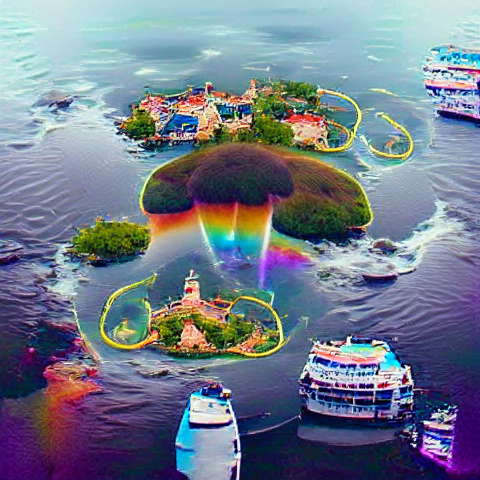
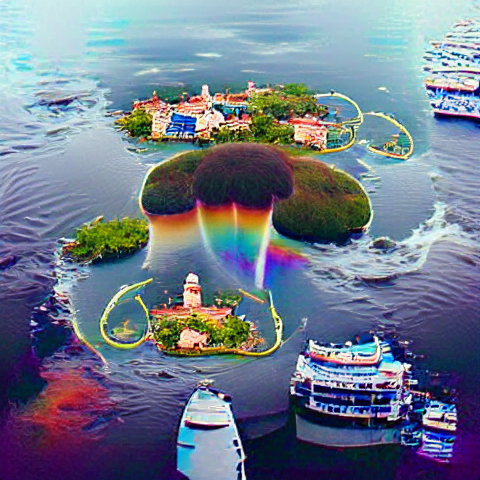
new imgs

diff --git a/index.html b/index.html
@@ -13,9 +13,11 @@
   	window.onload = setTimer;
   	var startTime, currentTime;
   	var oldlength = 0;
+  	var i=0;
+  	var j=0;
   	
-
-  	var images = ["img/biggan/island_1.jpeg", "img/biggan/ghibli.png", "img/biggan/octopus.png", "img/biggan/etheral.png", "img/biggan/galaxy.png", "img/biggan/sun.png", "img/biggan/alice.jpeg"];
+  	//todo: need to add more images for this
+  	var images = [["img/biggan/island_1.jpeg", "img/vqgan/island.png", "img/dalle/island.png", "img/draw/island.jpeg"], ["img/biggan/ghibli.png", "img/draw/ghibli.jpeg" ], ["img/biggan/octopus.png"], ["img/biggan/etheral.png"], ["img/biggan/galaxy.png"],[ "img/biggan/sun.png"], ["img/biggan/alice.jpeg"]];
   	var captions = ["An island in Disney reminded me of rainbows.", "Roaming in studio Ghibli world in the night", "An Octopus was playing the Ukele in the style of Disney", "The etheral forest spirits", "A galaxy in a melting pot", "Shining in the setting sun like a pearl upon the ocean", "Alice was lost in the wonderland"];
 
   	function setTimer(){
@@ -46,7 +48,6 @@
 		var textlength = presettext.value.length;
 
 		if ((textlength-oldlength) <= 20){
-			console.log("not much progress has been made");
 			showme.style.visibility = "visible";
 			showbtn.style.visibility = "visible";
 			togglebtn.style.visibility = "visible";
@@ -54,13 +55,14 @@
 
 		oldlength = textlength;
 
-	}, 10000)
+	}, 1000)
   	
   	function switchPrompt(){
-  		var i = Math.floor(Math.random() * 6);
+  		i = Math.floor(Math.random() * 6);
+  		j = Math.floor(Math.random() * images[i].length);
   		var visualImg = document.getElementById('visual');
   		var btn = document.getElementById('showbtn');
-  		visualImg.src = images[i];
+  		visualImg.src = images[i][j];
 
   		btn.innerHTML = "Show me some visual inspiration";
 	  	visualImg.style.visibility = "hidden";
@@ -71,6 +73,24 @@
 	  	showme.style.visibility = "hidden";
 		showbtn.style.visibility = "hidden";
 		togglebtn.style.visibility = "hidden";
+  	}
+
+  	function toggleImg(){
+  		var oldj = j;
+  		j = Math.floor(Math.random() * images[i].length);
+
+  		if (j==oldj){
+  			console.log(j);
+  			if(j<images[i].length-1){
+  				j++;
+  			}
+  			else{
+  				j--;
+  			}
+  		}
+
+  		var visualImg = document.getElementById('visual');
+  		visualImg.src = images[i][j];
   	}
 
 	function showInspiration()
@@ -112,19 +132,16 @@
 
 		  <button id = "donebtn" type="button" class="btn btn-success" onclick=""> Done!
 		  </button>
-
 		</div>
 
 		<div class="col-md-4">
 
 			<p id = "showme"> <b> Feeling stuck? <b> </p>
-			<button id = "showbtn" type="button" class="btn btn-primary" onclick="showInspiration();"> <b> Show me some visual inspiration </b> </button>
+			<button id = "showbtn" type="button" class="btn btn-primary" onclick="showInspiration();">Show me some visual inspiration</button>
 
-			<button id = "togglebtn" type="button" class="btn btn-primary" onclick=""> <b> <i class="fa fa-refresh" aria-hidden="true"></i> </b> </button>
+			<button id = "togglebtn" type="button" class="btn btn-primary" onclick="toggleImg()"> <b> <i class="fa fa-refresh" aria-hidden="true"></i> </b> </button>
 
 		  	<img id = "visual" src="img/biggan/island_1.jpeg" class="img-rounded" >
-
-		  	
 
 		</div>
 
